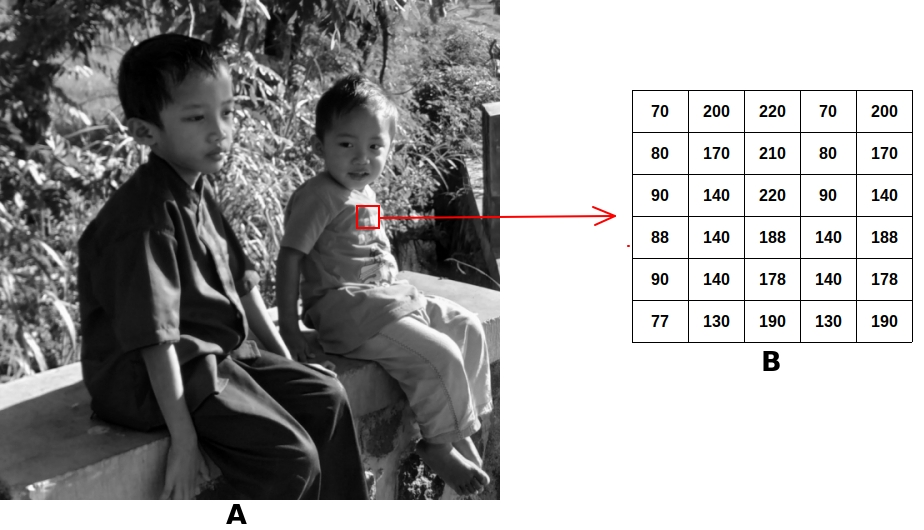
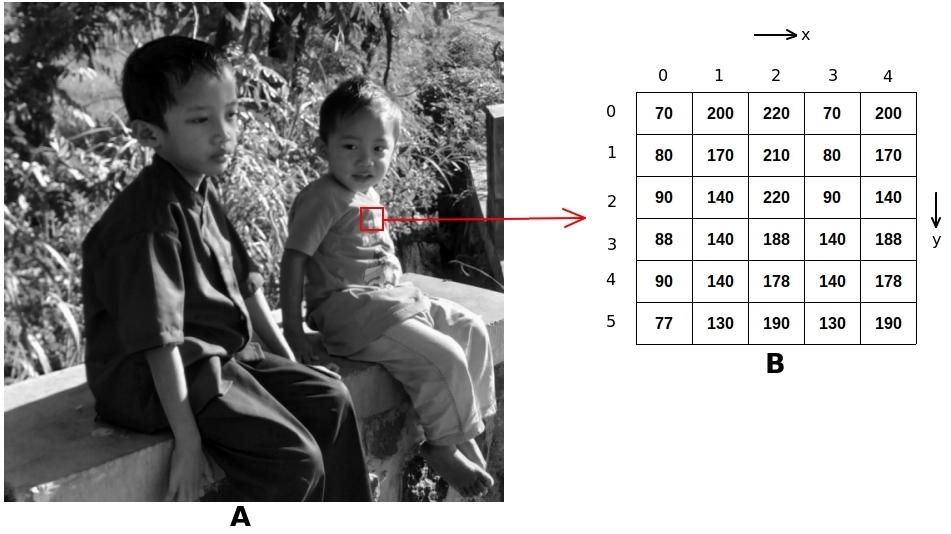
+ penjelasan cropping

Changed region(s): [[0.0, 0.0, 1.0, 0.9962], [0.7879, 0.0604, 0.8485, 0.0906], [0.3939, 0.6642, 0.4242, 0.7245]]

diff --git a/Pertemuan 1/apa itu pcd.md b/Pertemuan 1/apa itu pcd.md
@@ -1,10 +1,10 @@
 [Kembali ke halaman utama](../README.md)
 
 #### Definisi Singkat dari Citra
-Sebelum terjun ke materi, kita kenalan dulu dengan apa yang disebut **citra**. Mungkin, kalian bertanya-tanya, kenapa *image* (dalam bahasa Inggris) diterjemahkan menjadi citra? Kenapa terjemahannya bukan gambar? *Well*, citra secara makna memiliki konteks yang lebih luas dibandingkan dengan gambar. Sederhananya, gambar itu merupakan bagian dari citra. Contohnya, citra 2 dimensi (2D) bisa kalian temukan pada foto digital yang biasa kalian ambil dengan kamera, citra 3 dimensi seperti pada model objek 3 dimensi dari AutoCAD, dan sebagainya. Sedangkan gambar bisa kita sebut sebagai citra 2D. Selanjutanya, kita sebut **citra 2D** sebagai **citra**.
+Sebelum terjun ke materi, kita kenalan dulu dengan apa yang disebut **citra**. Mungkin, kalian bertanya-tanya, kenapa ***image*** ketika diterjemahkan ke dalam bahasa Indonesia menjadi citra? Kenapa terjemahannya bukan gambar? *Well*, citra secara makna memiliki konteks yang lebih luas dibandingkan dengan gambar. Sederhananya, gambar itu merupakan bagian dari citra. Contohnya, citra 2 dimensi (2D) bisa kalian temukan pada foto digital yang biasa kalian ambil dengan kamera, citra 3 dimensi seperti pada model objek 3 dimensi dari AutoCAD, dan sebagainya. Selanjutanya dalam materi ini, istilah **citra 2D** saya sederhanakan menjadi **citra**. Artinya, setiap ada kata **citra** berarti citra 2D.
 
 #### Model dari Citra
-Teman-teman yang telah mengambil mata kuliah Aljabar Linier (AL) masih ingat kan dengan beberapa fungsi matematis dan matriks? Di dalam mata kuliah AL, kalian belajar tentang matriks dua dimensi (2D). Sebut saja fungsi <img src="https://render.githubusercontent.com/render/math?math=f(x,y)">. Untuk memahami fungsi ini, coba kalian bayangkan sebuah citra dalam bentuk matriks 2D. Sulit gak? Oke, kita ilustrasikan fungsi tersebut ke dalam bentuk matriks pada Pers. 1:  
+Teman-teman yang telah mengambil mata kuliah Aljabar Linier (AL) masih ingat kan dengan beberapa fungsi matematis dan matriks? Di dalam mata kuliah AL, kalian belajar tentang matriks dua dimensi (2D). Coba kalian bayangkan sebuah citra dalam bentuk matriks 2D. Sulit gak? Oke, kita ilustrasikan fungsi tersebut ke dalam bentuk fungsi <img src="https://render.githubusercontent.com/render/math?math=f(x,y)">. Sehingga, didapat matriks pada Persamaan 1:  
 
 <table>
 <tr>
@@ -15,16 +15,22 @@ Teman-teman yang telah mengambil mata kuliah Aljabar Linier (AL) masih ingat kan
 </td>
 <td>
 
-*Pers. 1* 
+*Persamaan 1* 
 
 </td>
 </tr>
 </table>
 
-Tenang, tidak perlu panik. Kita bedah rumus pada Pers. 1 ya. Kita ingat kembali bahwa citra pada dasarnya adalah sebuah matriks 2D. Bayangkan matriks 2D dalam bentuk koordinat spasial kartesian dengan sumbu x dan sumbu y. Perbedaan citra dalam koordinat dengan koordinat kartesian adalah letak titik 0 (nol). Pada citra digital, titik nol berada di atas. Sedangkan kartesian berada di bawah. Fungsi f(x,y) pada Pers. 1 adalah fungsi **intensitas** pada tiap titik citra. Satuan titik pada citra digital disebut dengan **piksel** (pixel). Nilai intensitas pada tiap piksel memiliki nilai yang sifatnya **diskrit**. Adapun rentang nilai intensitas ini antara **0 hingga 255**.
+Tenang, tidak perlu panik. Kita bedah rumus pada Persamaan 1 ya. Kita ingat kembali bahwa citra pada dasarnya adalah sebuah matriks 2D. Bayangkan matriks 2D dalam bentuk koordinat spasial kartesian dengan sumbu x dan sumbu y. Oiya, yang perlu diingat adalah adanya perbedaan koordinat sumbu (x,y) pada citra dengan koordinat kartesian. Perbedaannya adalah letak titik 0 (nol). Pada citra digital, titik nol berada di atas (Gambar 1A). Sedangkan kartesian berada di bawah (Gambar 1B). Fungsi f(x,y) pada Pers. 1 adalah fungsi **intensitas** pada tiap titik citra. Satuan titik pada citra digital disebut dengan **piksel** (pixel). Nilai intensitas pada tiap piksel memiliki nilai yang sifatnya **diskrit**. Adapun rentang nilai intensitas ini antara **0 hingga 255**.
+![image info](../images/koordinat_citra.png)
+*Gambar 1*. (A) Koordinat Kartesian pada selain citra digital. (B) Koordinat kartesian pada citra digital
 
-
-Untuk lebih memudahkan pemahaman, kita *crop* sebagian kecil dengan ukuran 5 x 5 piksel dari sebuah citra. Kemudian, diilustrasikan besarnya intensitas tiap titik.
+Untuk lebih memudahkan pemahaman, kita *crop* sebagian kecil dengan ukuran 5 x 6 piksel dari sebuah citra (Gambar 2A). Kemudian, diilustrasikan besarnya intensitas tiap titik (Gambar 2B).
 
 ![image info](../images/gray_mapping.jpg)
-*Gambar 1*
+*Gambar 2*. (A) Citra sampel dalam grayscale. (B) Citra hasil *cropping* dari (A) dengan ukuran 5x6 piksel.
+
+Setiap blok pada Gambar 2B berukuran 1 piksel. Setiap piksel memiliki nilai intensitas. Contoh: pada Gambar 2B titik (0,0) memiliki intesitas sebesar 70. Jika ada citra memiliki koordinat x,y serta nilai intensitas yang terbatas dan diskrit maka disebut sebagai **citra digital**. 
+
+
+

diff --git a/README.md b/README.md
@@ -2,9 +2,10 @@
 Github ini berisi tentang materi perkuliahan Pengolahan Citra Digital
 
 1. Pengenalan Pengolahan Citra Digital (PCD)
-   1. [Apa itu PCD](Pertemuan%201/apa%20itu%20pcd.md)
+   1. [Apa itu PCD ?](Pertemuan%201/apa%20itu%20pcd.md)
    1. Contoh penerapan PCD
    1. Tahapan-tahapan dalam PCD
    1. Komponen dalam PCD
 1. Item 2
 1. Item 3
+1. Referensi
